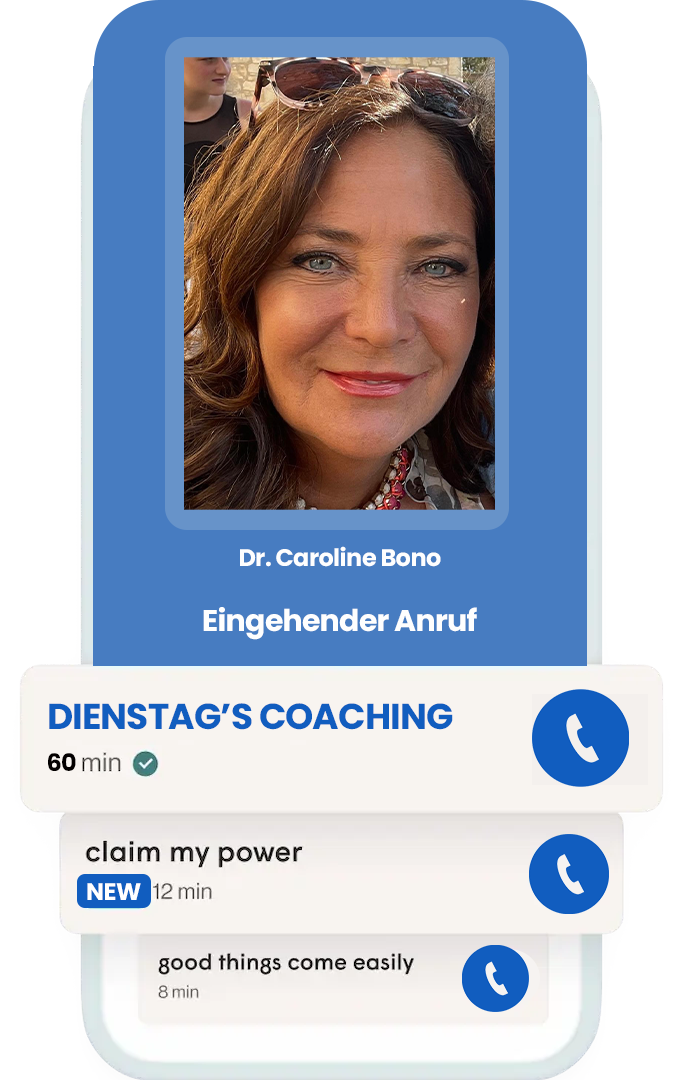
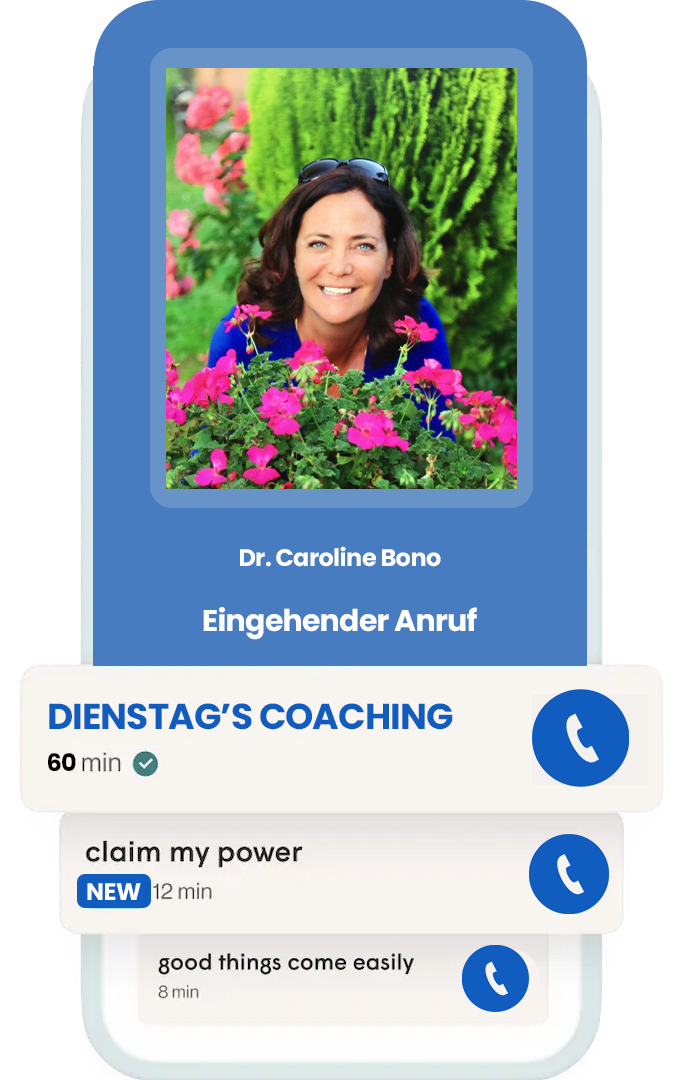
rerereupdate

Changed region(s): [[0.2168, 0.0306, 0.8053, 0.4889]]

diff --git a/blog/src/app/coachings/page.tsx b/blog/src/app/coachings/page.tsx
@@ -19,7 +19,7 @@ export default function Coachings() {
                 </div>
                 <div className="w-[95%] flex flex-col md:flex-row justify-evenly items-center gap-[50px]">
                     <div className="md:w-[40%] w-full overflow-hidden px-4 py-10 flex justify-center items-center flex-col bg-transparent rounded-2xl gap-3 xl:gap-7">
-                        <img className="max-w-[70%] rounded-full transition-all" loading="lazy" src="/caroline_bono_hoerler_portrait.png" alt="Caroline Bono Hoerler Portrait"/>
+                        <img className="max-w-[70%] rounded-full transition-all" loading="lazy" src="/caroline_bono_hoerler_portrait.jpg" alt="Caroline Bono Hoerler Portrait"/>
                         <h1 className="text-xl md:text-3xl xl:text-4xl text-primary flex justify-center items-center gap-3 max-w-[300px] text-center" style={{ fontFamily: poppins.style.fontFamily}}>
                             Das BeHappy&copy; Erfolgsrezept
                         </h1>
@@ -69,7 +69,7 @@ export default function Coachings() {
             <section className="w-screen h-fit flex justify-center items-center flex-col gap-5">
               <h1 className="text-5xl" style={{ fontFamily: b_dancing_script.style.fontFamily }}>Schritte unserer Zusammenarbeit im Coaching</h1>
               <img loading="lazy" src="/schritte_der_zusammenarbeit_behappy_coaching.png" alt="Schritte der Zusammenarbeit" className="w-screen"/>
-              <Link className="text-xl bg-primary text-sand hover:bg-secondary hover:text-primary transition-all duration-300 px-3 py-2 rounded-xl" style={{ fontFamily: poppins.style.fontFamily}} href={"/contact"}>Hier klicken um kostenlosen Kennenlerntermin zu buchen</Link>
+              <Link className="text-xl bg-primary text-sand hover:bg-secondary hover:text-primary transition-all duration-300 px-3 py-2 rounded-xl" style={{ fontFamily: poppins.style.fontFamily}} href={"/contact"}>Hier klicken um Kennenlerntermin zu buchen</Link>
             </section>
             <section className="w-screen h-fit justify-center items-center">
               <img loading="lazy" src="/resultate_behappy_coaching.png" alt="Resultate" className="w-screen"/>

diff --git a/blog/src/app/page.tsx b/blog/src/app/page.tsx
@@ -76,7 +76,7 @@ export default function Home() {
           </div>
           <div className="w-[95%] flex flex-col md:flex-row justify-evenly items-center gap-[50px]">
             <div className="md:w-[40%] w-full overflow-hidden px-4 py-10 flex justify-center items-center flex-col bg-transparent rounded-2xl gap-3 xl:gap-7">
-              <img className="max-w-[70%] rounded-full transition-all" loading="lazy" src="/caroline_bono_hoerler_portrait.png" alt="Caroline Bono Hoerler Portrait"/>
+              <img className="max-w-[70%] rounded-full transition-all" loading="lazy" src="/caroline_bono_hoerler_portrait.jpg" alt="Caroline Bono Hoerler Portrait"/>
               <h1 className="text-xl md:text-3xl xl:text-4xl text-primary flex justify-center items-center gap-3 max-w-[300px] text-center" style={{ fontFamily: poppins.style.fontFamily}}>
                 Das BeHappyCoaching&copy; Erfolgsrezept
               </h1>
@@ -172,7 +172,7 @@ export default function Home() {
             <section className="w-screen h-fit flex justify-center items-center flex-col gap-5">
               <h1 className="text-5xl" style={{ fontFamily: b_dancing_script.style.fontFamily }}>Schritte unserer Zusammenarbeit im Coaching</h1>
               <img loading="lazy" src="/schritte_der_zusammenarbeit_behappy_coaching.png" alt="Schritte der Zusammenarbeit" className="w-screen"/>
-              <Link className="text-xl bg-primary text-sand hover:bg-secondary hover:text-primary transition-all duration-300 px-3 py-2 rounded-xl" style={{ fontFamily: poppins.style.fontFamily}} href={"/contact"}>Hier klicken um kostenlosen Kennenlerntermin zu buchen</Link>
+              <Link className="text-xl bg-primary text-sand hover:bg-secondary hover:text-primary transition-all duration-300 px-3 py-2 rounded-xl" style={{ fontFamily: poppins.style.fontFamily}} href={"/contact"}>Hier klicken um Kennenlerntermin zu buchen</Link>
             </section>
             <section className="w-screen h-fit justify-center items-center">
               <img loading="lazy" src="/resultate_behappy_coaching.png" alt="Resultate" className="w-screen"/>

diff --git a/blog/src/app/api/meta/route.ts b/blog/src/app/api/meta/route.ts
@@ -1,0 +1,54 @@
+import fetch from 'node-fetch';
+
+export default async function handler(req: any, res: any) {
+  if (req.method === 'POST') {
+    const event = req.body;
+
+    // Überprüfe, ob es sich um das richtige Ereignis handelt
+    if (event.event === 'invitee.created') {
+      const invitee = event.payload;
+
+      // Beispiel: Umwandeln der Daten in das Format, das die Meta Conversion API erwartet
+      const eventData = {
+        event_name: 'Lead',
+        event_time: Math.floor(new Date().getTime() / 1000), // Zeitstempel in Sekunden
+        user_data: {
+          email: sha256(invitee.email), // E-Mail des Teilnehmers, gehasht mit SHA256
+        },
+        custom_data: {
+          event_id: invitee.event.id, // ID des Events
+          value: 0, // Du kannst hier den Wert der Conversion angeben, falls vorhanden
+          currency: 'EUR', // Währung der Conversion
+        },
+        action_source: 'website',
+      };
+
+      // Sende die Daten an die Meta Conversion API
+      const response = await fetch(`https://graph.facebook.com/v13.0/YOUR_PIXEL_ID/events?access_token=YOUR_ACCESS_TOKEN`, {
+        method: 'POST',
+        headers: {
+          'Content-Type': 'application/json',
+        },
+        body: JSON.stringify({
+          data: [eventData],
+        }),
+      });
+
+      const result = await response.json();
+      console.log('Meta Conversion API Response:', result);
+
+      res.status(200).json({ status: 'success' });
+    } else {
+      res.status(200).json({ status: 'ignored' });
+    }
+  } else {
+    res.status(405).json({ error: 'Method not allowed' });
+  }
+}
+
+// Hilfsfunktion, um E-Mail zu hashen (SHA256)
+import crypto from 'crypto';
+
+function sha256(data: any) {
+  return crypto.createHash('sha256').update(data).digest('hex');
+}
